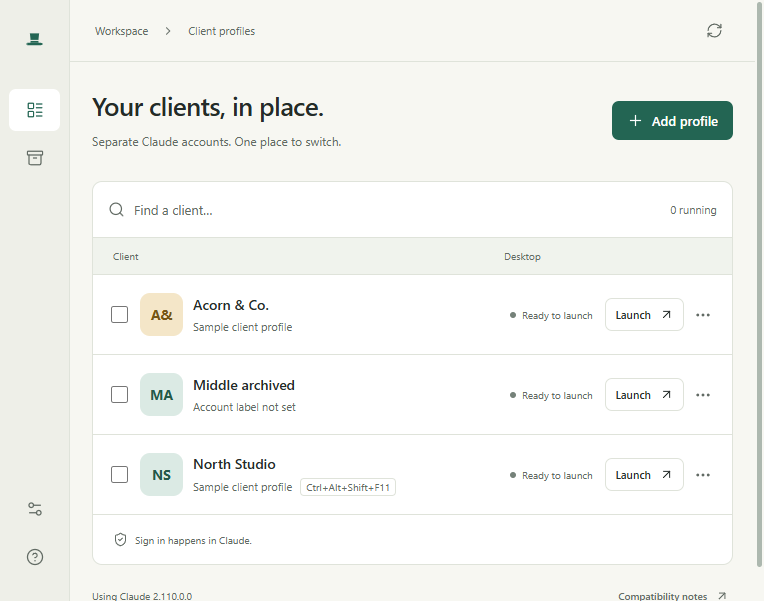
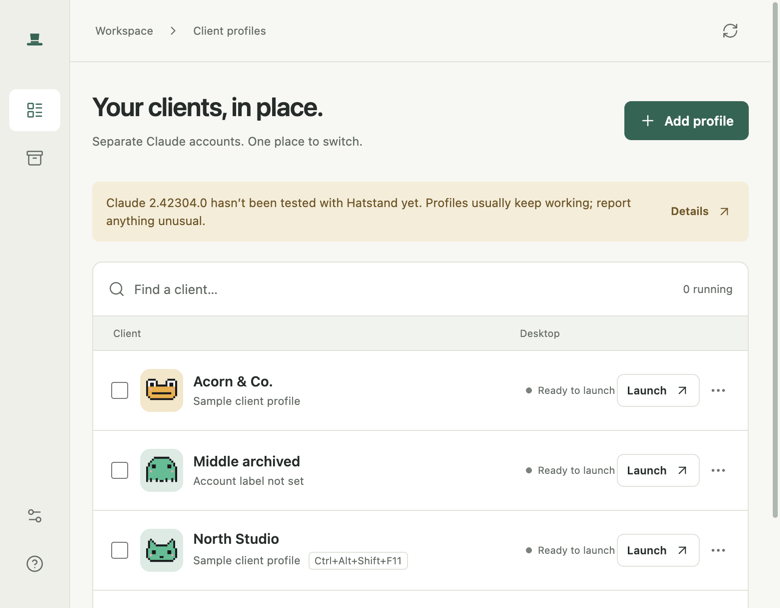
Document menu-bar pets and refresh screenshots
README, changelog, roadmap, architecture, macOS notes and the website now
describe the pets, the session panel and the pet picker. Screenshots are
retaken at one window size with pet avatars, plus a pets sheet and a panel
image made from sample sessions.

diff --git a/docs/index.html b/docs/index.html
@@ -222,8 +222,8 @@
     </div>
     <p class="fine">Windows 11 x64 · Requires the official Claude Desktop app · Preview release</p>
     <div class="shot">
-      <img class="light-shot" src="images/profiles.png" width="1104" height="741" alt="Hatstand's client list with three sample clients, each with a colored avatar, status, and a Launch button">
-      <img class="dark-shot" src="images/dark.png" width="1104" height="741" alt="" aria-hidden="true">
+      <img class="light-shot" src="images/profiles.png" width="1104" height="737" alt="Hatstand's client list with three sample clients, each with a colored avatar, status, and a Launch button">
+      <img class="dark-shot" src="images/dark.png" width="1104" height="737" alt="" aria-hidden="true">
     </div>
   </div>
 
@@ -274,7 +274,7 @@
         </div>
         <div class="feature">
           <svg width="26" height="26" viewBox="0 0 24 24" fill="none" stroke="currentColor" stroke-width="1.8" stroke-linecap="round" stroke-linejoin="round" aria-hidden="true"><circle cx="12" cy="12" r="9"/><path d="m8 12 3 3 5-6"/></svg>
-          <h3>Status you can trust</h3><p>Shows whether a client's Claude is running, and never pretends to know more than that.</p>
+          <h3>Status you can trust</h3><p>Shows whether a client's Claude is running. On a Mac, its menu-bar pet says when Claude Code needs you or is done, straight from Claude Code itself.</p>
         </div>
         <div class="feature">
           <svg width="26" height="26" viewBox="0 0 24 24" fill="none" stroke="currentColor" stroke-width="1.8" stroke-linecap="round" stroke-linejoin="round" aria-hidden="true"><path d="M3 7a2 2 0 0 1 2-2h4l2 2h8a2 2 0 0 1 2 2v8a2 2 0 0 1-2 2H5a2 2 0 0 1-2-2Z"/></svg>
@@ -296,11 +296,12 @@
     <div class="wrap">
       <div class="section-head">
         <div class="kicker">A closer look</div>
-        <h2>Looks at home on Windows, in light or dark.</h2>
+        <h2>Looks at home on Windows and Mac, in light or dark.</h2>
       </div>
       <div class="gallery">
-        <figure><img src="images/editor.png" width="1104" height="741" loading="lazy" alt="Profile details panel with name, color, work folder, and a recorded Ctrl+Alt+Shift+F11 shortcut"><figcaption>Per-client color, shortcut, work folder, and startup options.</figcaption></figure>
-        <figure><img src="images/setup.png" width="1104" height="741" loading="lazy" alt="First-run setup confirming Claude Desktop was found"><figcaption>A short first-run setup finds Claude and explains what stays separate.</figcaption></figure>
+        <figure><img src="images/editor.png" width="1104" height="737" loading="lazy" alt="Profile details panel with name, a pet picker, color, work folder, and a recorded Ctrl+Alt+Shift+F11 shortcut"><figcaption>Per-client pet, color, shortcut, work folder, and startup options.</figcaption></figure>
+        <figure><img src="images/setup.png" width="1104" height="737" loading="lazy" alt="First-run setup confirming Claude Desktop was found"><figcaption>A short first-run setup finds Claude and explains what stays separate.</figcaption></figure>
+        <figure><img src="images/panel.png" width="680" height="706" loading="lazy" alt="A menu-bar pet's panel listing a client's Claude Code sessions with task progress and token usage"><figcaption>On a Mac, each client's pet lists its active sessions. Click one to jump to it.</figcaption></figure>
       </div>
     </div>
   </section>

diff --git a/README.md b/README.md
@@ -7,7 +7,7 @@
 
 **[Website](https://lordkelvinabellana.github.io/hatstand/)** · **[Download](https://github.com/lordkelvinabellana/hatstand/releases/latest)** · **[Compatibility](docs/COMPATIBILITY.md)**
 
-Hatstand is a small, open-source Windows and macOS launcher for people who use Claude Desktop with several accounts, such as consultants and agencies working for multiple clients. Create a profile per client, sign in once inside the official Claude app, then launch or focus any client from a list, the tray, a keyboard shortcut, or a desktop shortcut.
+Hatstand is a small, open-source Windows and macOS launcher for people who use Claude Desktop with several accounts, such as consultants and agencies working for multiple clients. Create a profile per client, sign in once inside the official Claude app, then launch or focus any client from a list, the tray, a keyboard shortcut, or a desktop shortcut. On a Mac, each client also gets a pixel pet in the menu bar that tells you when that account's Claude needs you or has finished.
 
 ![Hatstand profile list with three sample clients](docs/images/profiles.png)
 
@@ -22,14 +22,15 @@ Hatstand starts Claude with a separate data folder for each profile by setting `
 
 ## Features
 
-- **One profile per client**: name, color, initials, and an optional account label you enter yourself.
+- **One profile per client**: name, color, a pixel pet (or initials) as its picture, and an optional account label you enter yourself.
 - **Launch or focus** a client's Claude window, or **open several at once**.
-- **Status you can trust**: shows whether that profile's Claude process is running. It never claims an account is signed in or a task finished.
+- **Status you can trust**: shows whether that profile's Claude process is running. It never claims an account is signed in, and only reports a task as finished when Claude Code itself says so (see [menu-bar pets](#menu-bar-pets-macos)).
+- **Menu-bar pets (macOS)**: one pet per client that shows working, needs input, or done, with its own sound, and a panel of that account's active sessions.
 - **Keyboard first**: a global shortcut opens Hatstand (Ctrl+Shift+Space by default), per-profile shortcuts jump straight to a client, and Ctrl+K searches.
 - **Windows integration**: tray menu, taskbar jump list, per-client desktop shortcuts, optional start with Windows, and profiles that open at sign-in.
 - **Client work folders**: one click to open the client's files. This is a convenience only; it doesn't restrict what Claude can access.
 - **Safe data handling**: removing a profile keeps its data by default. Leftover data can be moved to the Recycle Bin (never deleted outright), and uninstalling Hatstand keeps every profile.
-- **Metadata export/import**: names, labels, and colors only. Sign-ins never leave your computer.
+- **Metadata export/import**: names, labels, colors, and pets only. Sign-ins never leave your computer.
 - Light, dark, and system themes; keyboard navigation; no telemetry.
 
 ## macOS preview
@@ -46,6 +47,38 @@ Local previews are not Developer ID signed or notarized. See
 [Mac build, verification and signing instructions](docs/MACOS.md).
 Mac data is stored in `~/Library/Application Support/HatstandData` and survives
 removing the app. The remaining instructions below describe Windows.
+
+### Menu-bar pets (macOS)
+
+![Eight pixel pets, and one pet sleeping, idle, working, asking and done](docs/images/pets.png)
+
+Instead of one Claude icon per account, the menu bar shows one pet per client.
+Pick it in the profile editor (cat, frog, ghost, bunny, bear, chick, slime or robot);
+it is also the client's picture in Hatstand.
+
+| The pet shows | When |
+|---|---|
+| Asleep, grey | That client's Claude isn't running |
+| A bubble with dots, bobbing | Claude Code is working |
+| A red **!**, hopping, plus a sound | It asked you something or needs a permission |
+| A green **✓**, plus a sound | The whole task is finished: every step of its task list and every background task |
+
+Each pet plays its jingle in its own key, so you can tell by ear which account wants you.
+Claude's own menu bar icon can be turned off per account in Claude's Settings → General.
+
+<img src="docs/images/panel.png" width="340" alt="A pet's panel listing three sessions: one asking a question with its task list and token usage, one working, one done">
+
+Hover a pet for a panel of that account's active sessions: title, project folder, your
+last prompt, task progress, background tasks, context and output tokens, and the model.
+Click the pet to keep the panel open, and click a session to open that conversation in
+the right account's Claude. Right-click for the Hatstand menu.
+
+How it works: Hatstand adds a small hook script (`HatstandData/pet-hook.sh`) to each
+profile's Claude Code `settings.json`. The hook writes one tiny file per session
+(state, time, transcript path) to `profiles/<id>/pet/`, and the panel reads that
+session's local transcript. Nothing is sent anywhere. Opening a session sends a
+`claude://code/continue` link to that profile's own Claude process, so macOS asks
+once for permission to control Claude.
 
 ## Install (Windows)
 

diff --git a/docs/MACOS.md b/docs/MACOS.md
@@ -61,6 +61,30 @@ Claude. Separate profiles are not a filesystem or security sandbox.
   for Command, Super and CommandOrControl. Desktop `.lnk` creation remains
   Windows-only; Mac users have Dock, menu bar and keyboard actions.
 
+### Menu-bar pets
+
+- `src/main/pets.ts` keeps one `Tray` per active profile, drawn from
+  `src/core/sprites.ts` (text grids, no Node imports, so the manager window draws
+  the same pets as avatars). The hat icon comes back only when there are no profiles.
+- At start Hatstand writes `HatstandData/pet-hook.sh` and merges seven hooks into
+  each launched profile's `code/settings.json` (UserPromptSubmit, PostToolUse,
+  PreToolUse for AskUserQuestion/ExitPlanMode, PermissionRequest, Notification,
+  Stop, SessionEnd). Other hooks are left alone; an unreadable settings file is
+  never overwritten; a profile that was never launched gets no folders.
+- The hook writes `profiles/<id>/pet/<session>.json`: state, time, transcript
+  path and the desktop session id, each validated before use. Hatstand watches
+  that folder, and settles a Stop against the transcript: unfinished task-list
+  steps or running background tasks keep it working, a wrap-up question makes it
+  ask. Sessions that stop reporting age out (working after 20 minutes).
+- Sounds are square-wave WAVs generated at start and played with `afplay`.
+- The panel is a sandboxed, script-free page except for one hash-allowed script
+  that reports its height. Its links are commands handled in `will-navigate`.
+- Opening a session: `hatstand-macos open-url` revalidates the process like
+  `focus`, accepts only `claude://code/continue?session=local_…`, and sends it as
+  a `kAEGetURL` Apple Event to that PID. Every Claude shares one bundle ID, so an
+  ordinary URL open would reach whichever account macOS picks. macOS asks once for
+  Automation permission (`NSAppleEventsUsageDescription`).
+
 ## Build and test
 
 Requires Node.js **24+**, macOS **13+**, and Xcode Command Line Tools (`xcode-select --install`).

diff --git a/CHANGELOG.md b/CHANGELOG.md
@@ -4,6 +4,18 @@ All notable changes are documented here. The format follows [Keep a Changelog](h
 
 ## [Unreleased]
 
+### Added
+
+- **macOS preview**: menu bar and Dock actions, Cmd shortcuts, start at login, and `.app`/DMG/ZIP packaging.
+- **Menu-bar pets (macOS)**: one pixel pet per profile replaces Hatstand's menu bar icon and shows when that account's Claude Code is working, needs input, or is done, with a generated sound in each pet's own key. State comes from Claude Code hooks that Hatstand adds to each profile's settings.
+- **Session panel**: hover a pet to see that account's active sessions (title, folder, last prompt, task progress, background tasks, token usage, model); click to pin it; click a session to open that conversation in the right account's Claude.
+- **Pet picker**: eight pets, or initials, as each profile's picture. Existing profiles get a pet each, in order. Export and import include it.
+
+### Changed
+
+- A session counts as done only when its whole task list and its background tasks are finished; a turn that ends on a question shows as needing input.
+- Picking a theme applies it immediately.
+
 ## [0.1.0] - 2026-09-16
 
 First public preview.

diff --git a/docs/ROADMAP.md b/docs/ROADMAP.md
@@ -20,7 +20,6 @@ Priorities can change based on compatibility findings and feedback. Open an issu
 
 - Per-profile MCP configuration editor with validation and backup.
 - Terminals that open with a profile's Code configuration.
-- Task and notification indicators through a reliable integration, never inferred from process state.
 - Window layout restore across clients.
 - Resource usage per profile, where process ownership is certain.
 - Automatic updates with a verified pipeline and explicit user control.
@@ -28,7 +27,10 @@ Priorities can change based on compatibility findings and feedback. Open an issu
 
 ## macOS
 
-A Mac version is planned. The approach, open questions, and work breakdown are in [MACOS.md](MACOS.md).
+A macOS preview is in progress, including menu-bar pets that show each account's Claude Code sessions (task indicators from Claude Code hooks, never inferred from process state). Details and remaining work are in [MACOS.md](MACOS.md).
+
+- Pets on Windows (the tray hides most icons, so this needs its own design).
+- A setting to turn pets and their sounds off.
 
 ## Done in 0.1.0
 

diff --git a/docs/ARCHITECTURE.md b/docs/ARCHITECTURE.md
@@ -39,6 +39,8 @@ Claude.exe per profile, with its own --user-data-dir
   manager\               Hatstand's own Electron data
   profiles\<uuid>\desktop   Claude Desktop user data (signed-in session)
   profiles\<uuid>\code      CLAUDE_CONFIG_DIR
+  profiles\<uuid>\pet       macOS: one state file per Claude Code session, written by the pet hook
+  pet-hook.sh, pet-sounds\  macOS: the hook Hatstand adds to each profile's Code settings, and generated sounds
 ```
 
 The data folder is deliberately separate from the Squirrel install folder `%LOCALAPPDATA%\Hatstand`, which the uninstaller deletes. `migrateLegacyData` moves 0.0.1 data out of it by renaming.
